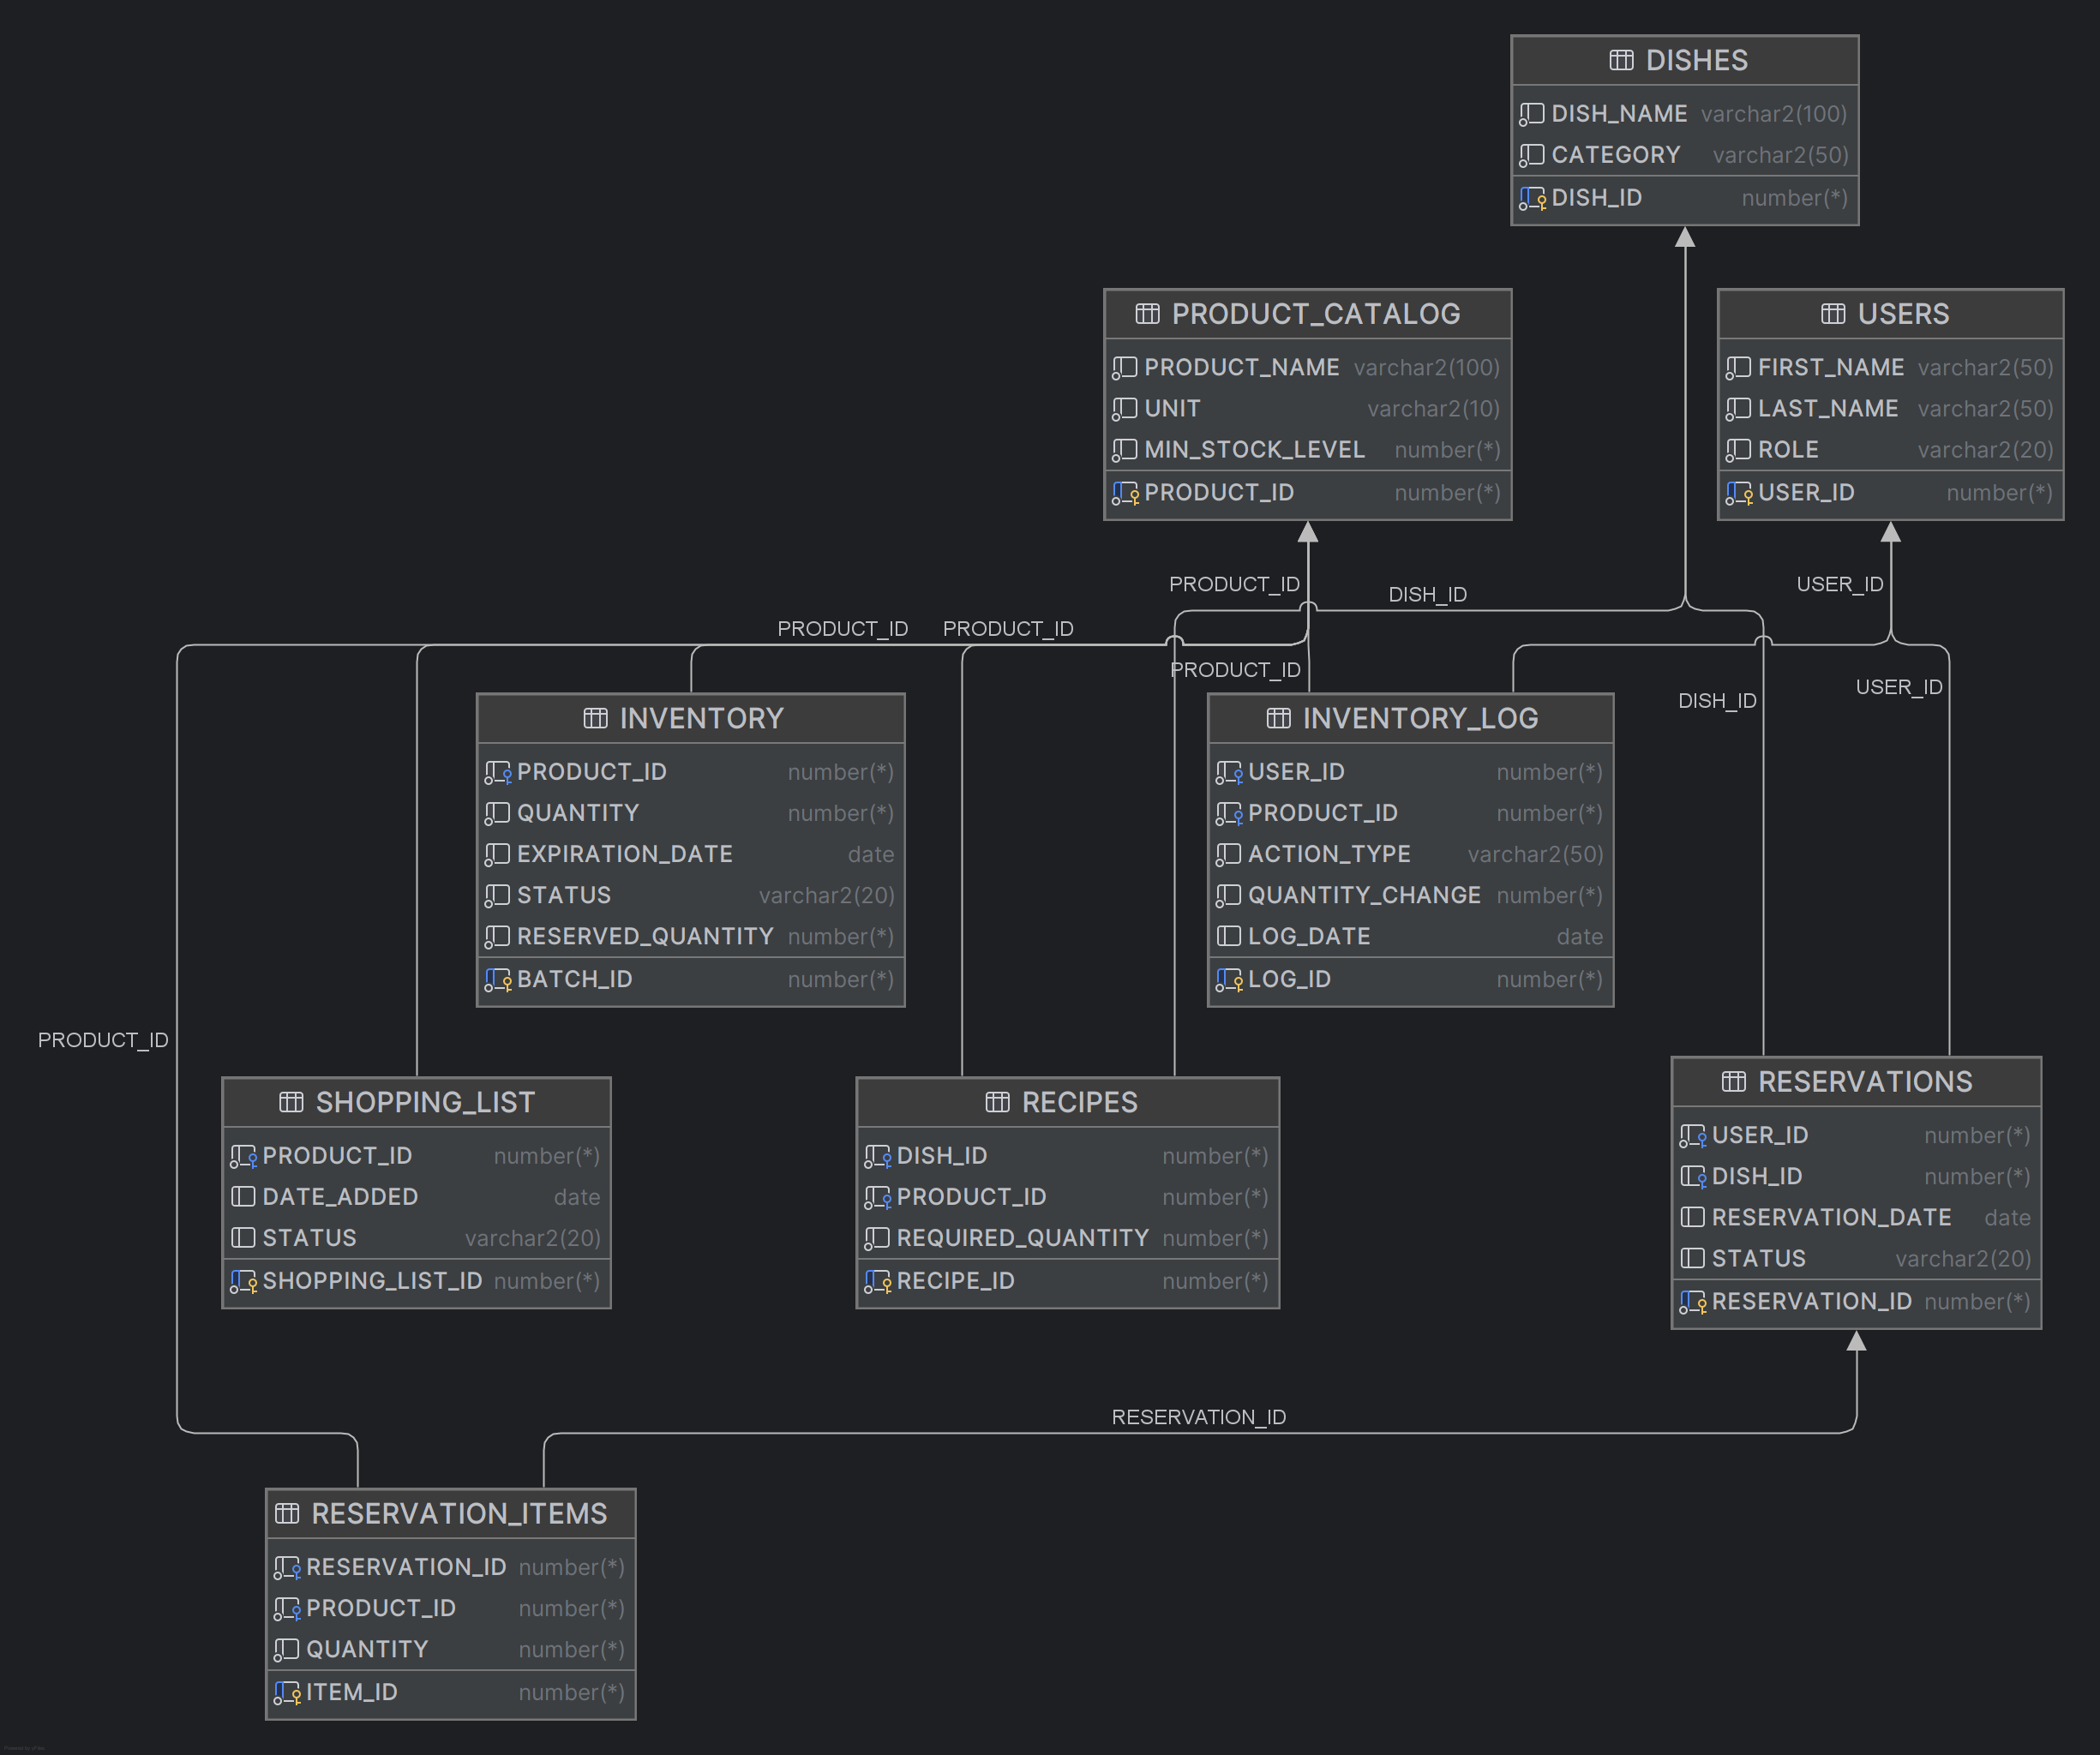
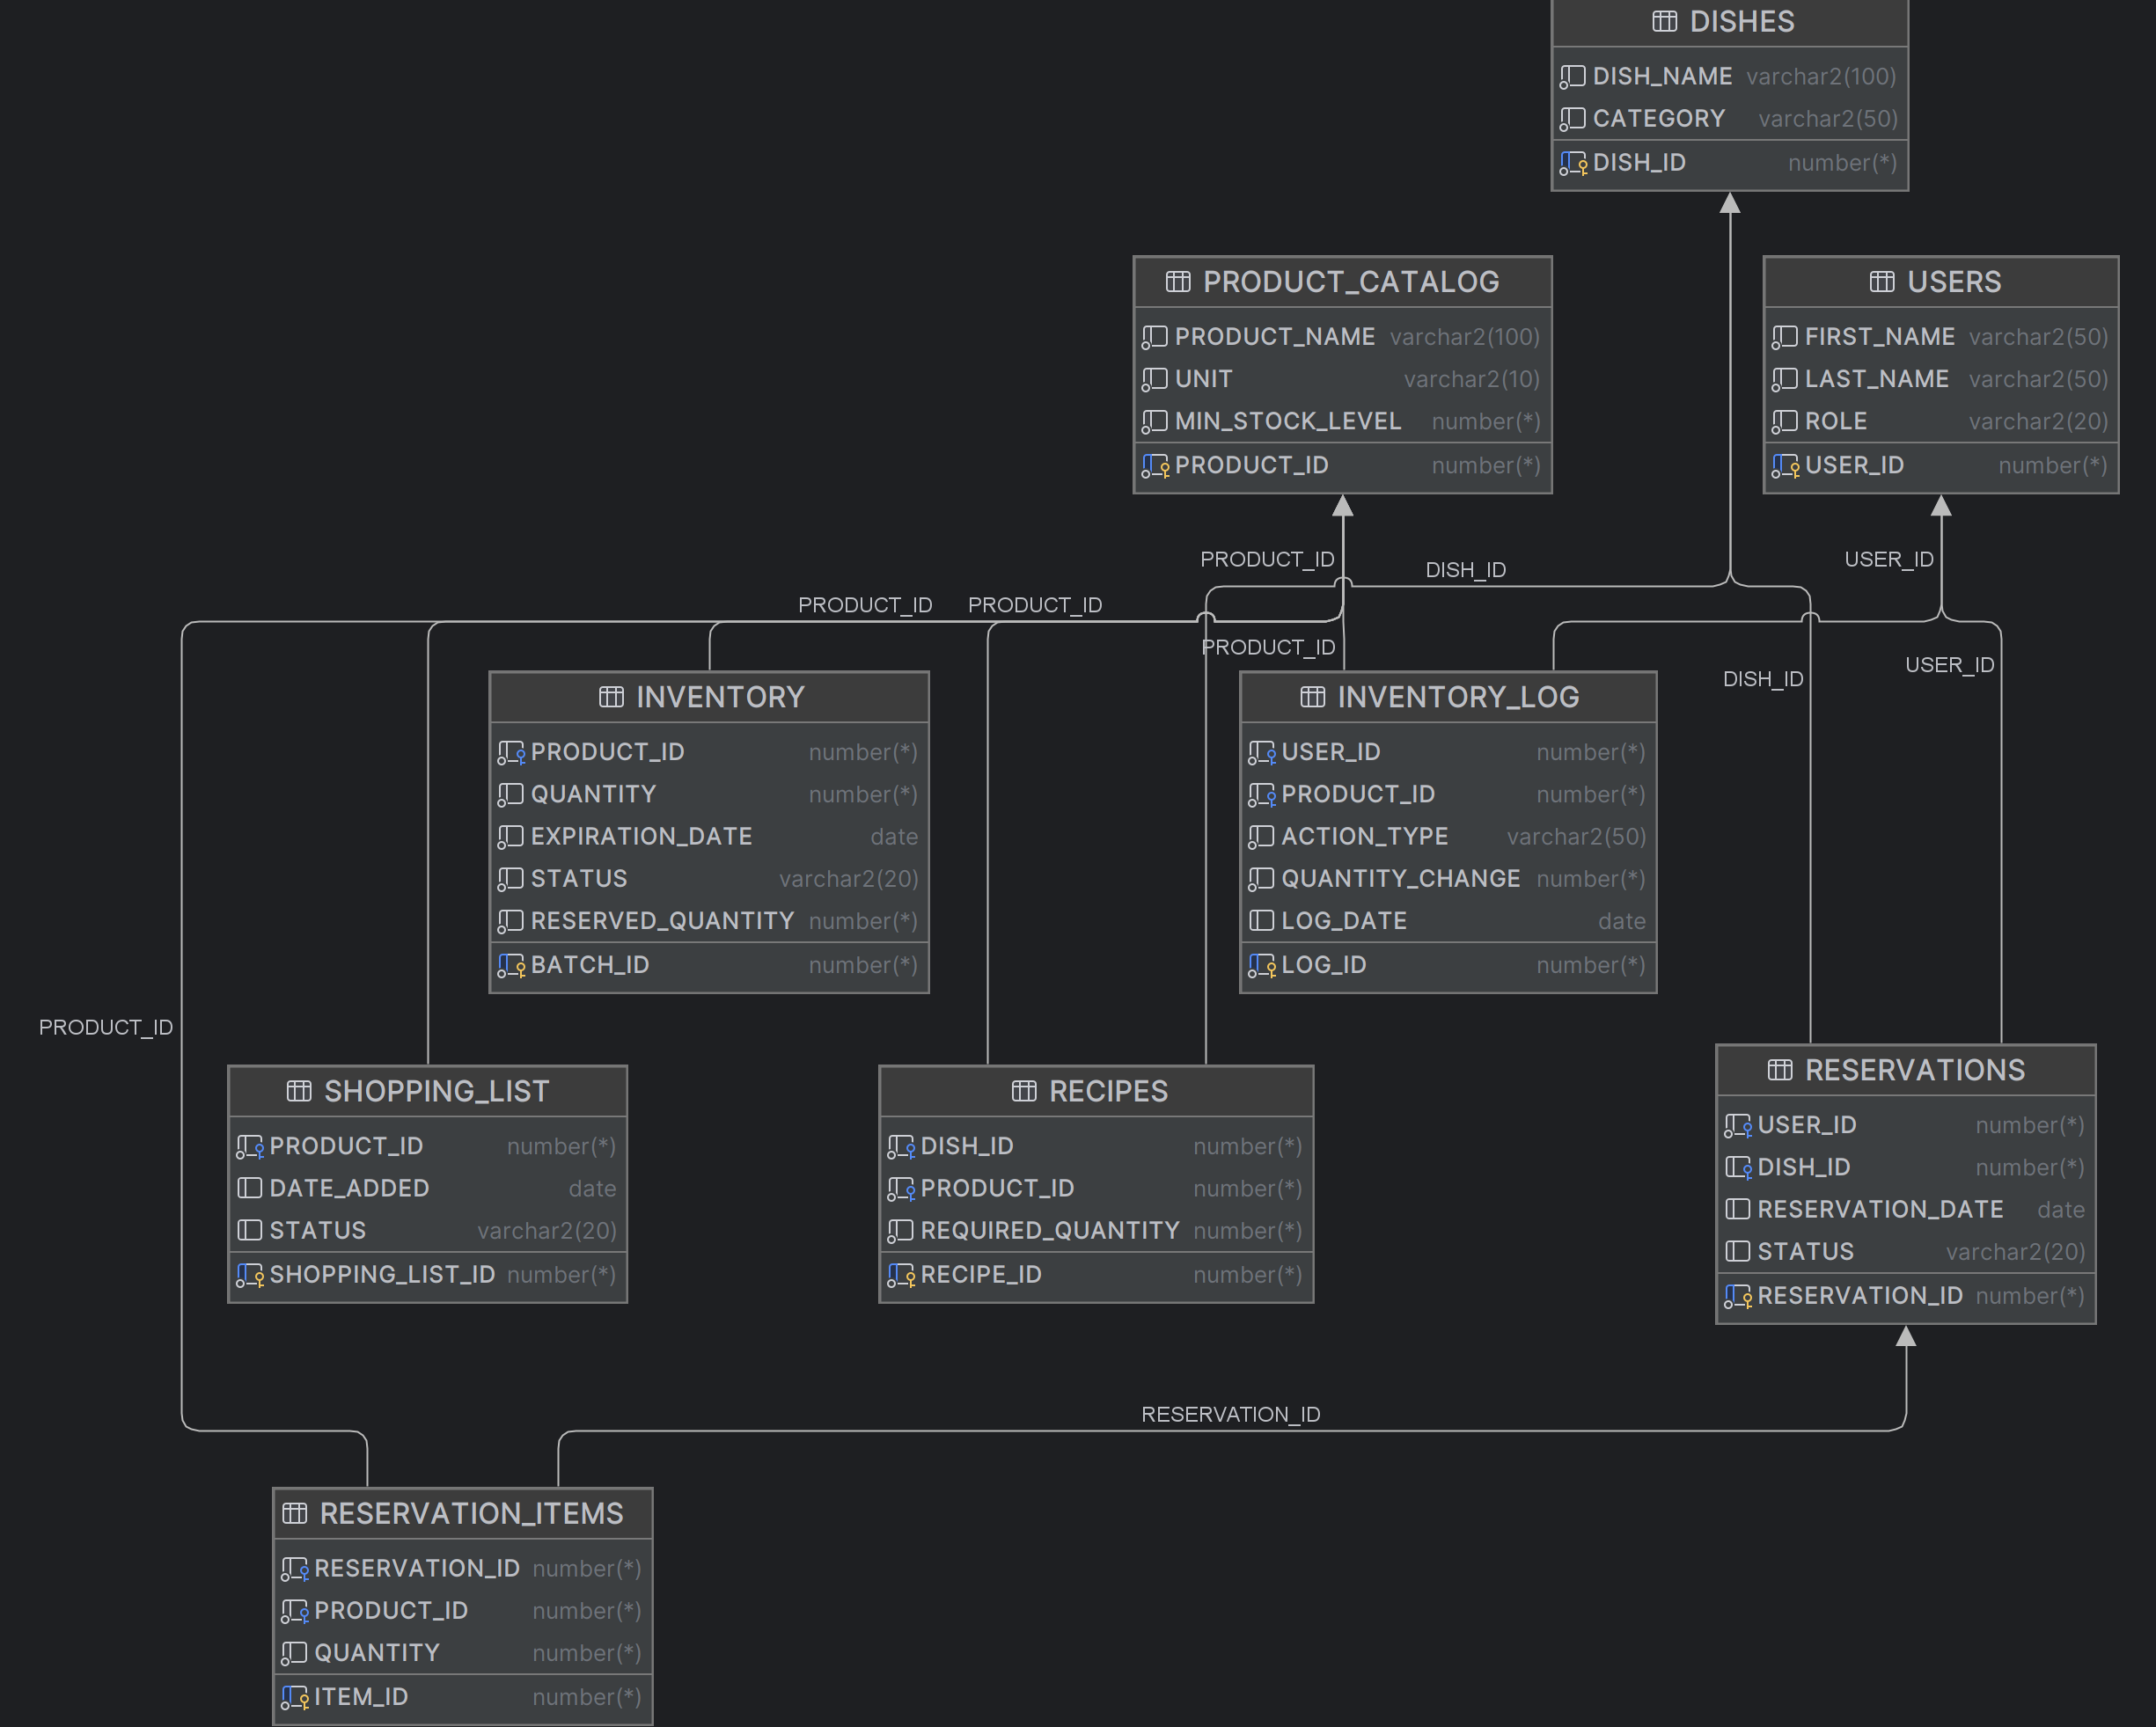
pdf

diff --git a/pfd_style.css b/pfd_style.css
@@ -1,0 +1,14 @@
+@media print {
+    @page { size: A4 landscape; margin: 1cm; }
+    body { font-size: 12pt; }
+    pre, code {
+        white-space: pre-wrap;
+        word-break: break-all;
+        font-size: 8pt;
+    }
+    img {
+        max-width: 70% !important;
+        display: block;
+        margin: 0 auto;
+    }
+}

diff --git a/raport.md b/raport.md
@@ -1,3 +1,9 @@
+<style>
+    body {
+      font-size: 8pt;
+    }
+</style>
+
 # Projekt - spiżarnia
 
 **Imiona i nazwiska:** Iga Szaflik, Katarzyna Piskorz
@@ -7,7 +13,7 @@ https://github.com/kassimma123/BD_2_Piskorz_Szaflik.git
 
 ## Schemat Bazy danych
 
-![spizarnia](spizarnia.png)
+<img src="spizarnia.png" alt="Schemat spiżarni" width="850">
 
 ### `Users` (Użytkownicy)
 Tabela przechowuje informacje o użytkownikach systemu (np. domownikach, kucharzach), którzy mogą modyfikować stany magazynowe lub dokonywać rezerwacji posiłków.